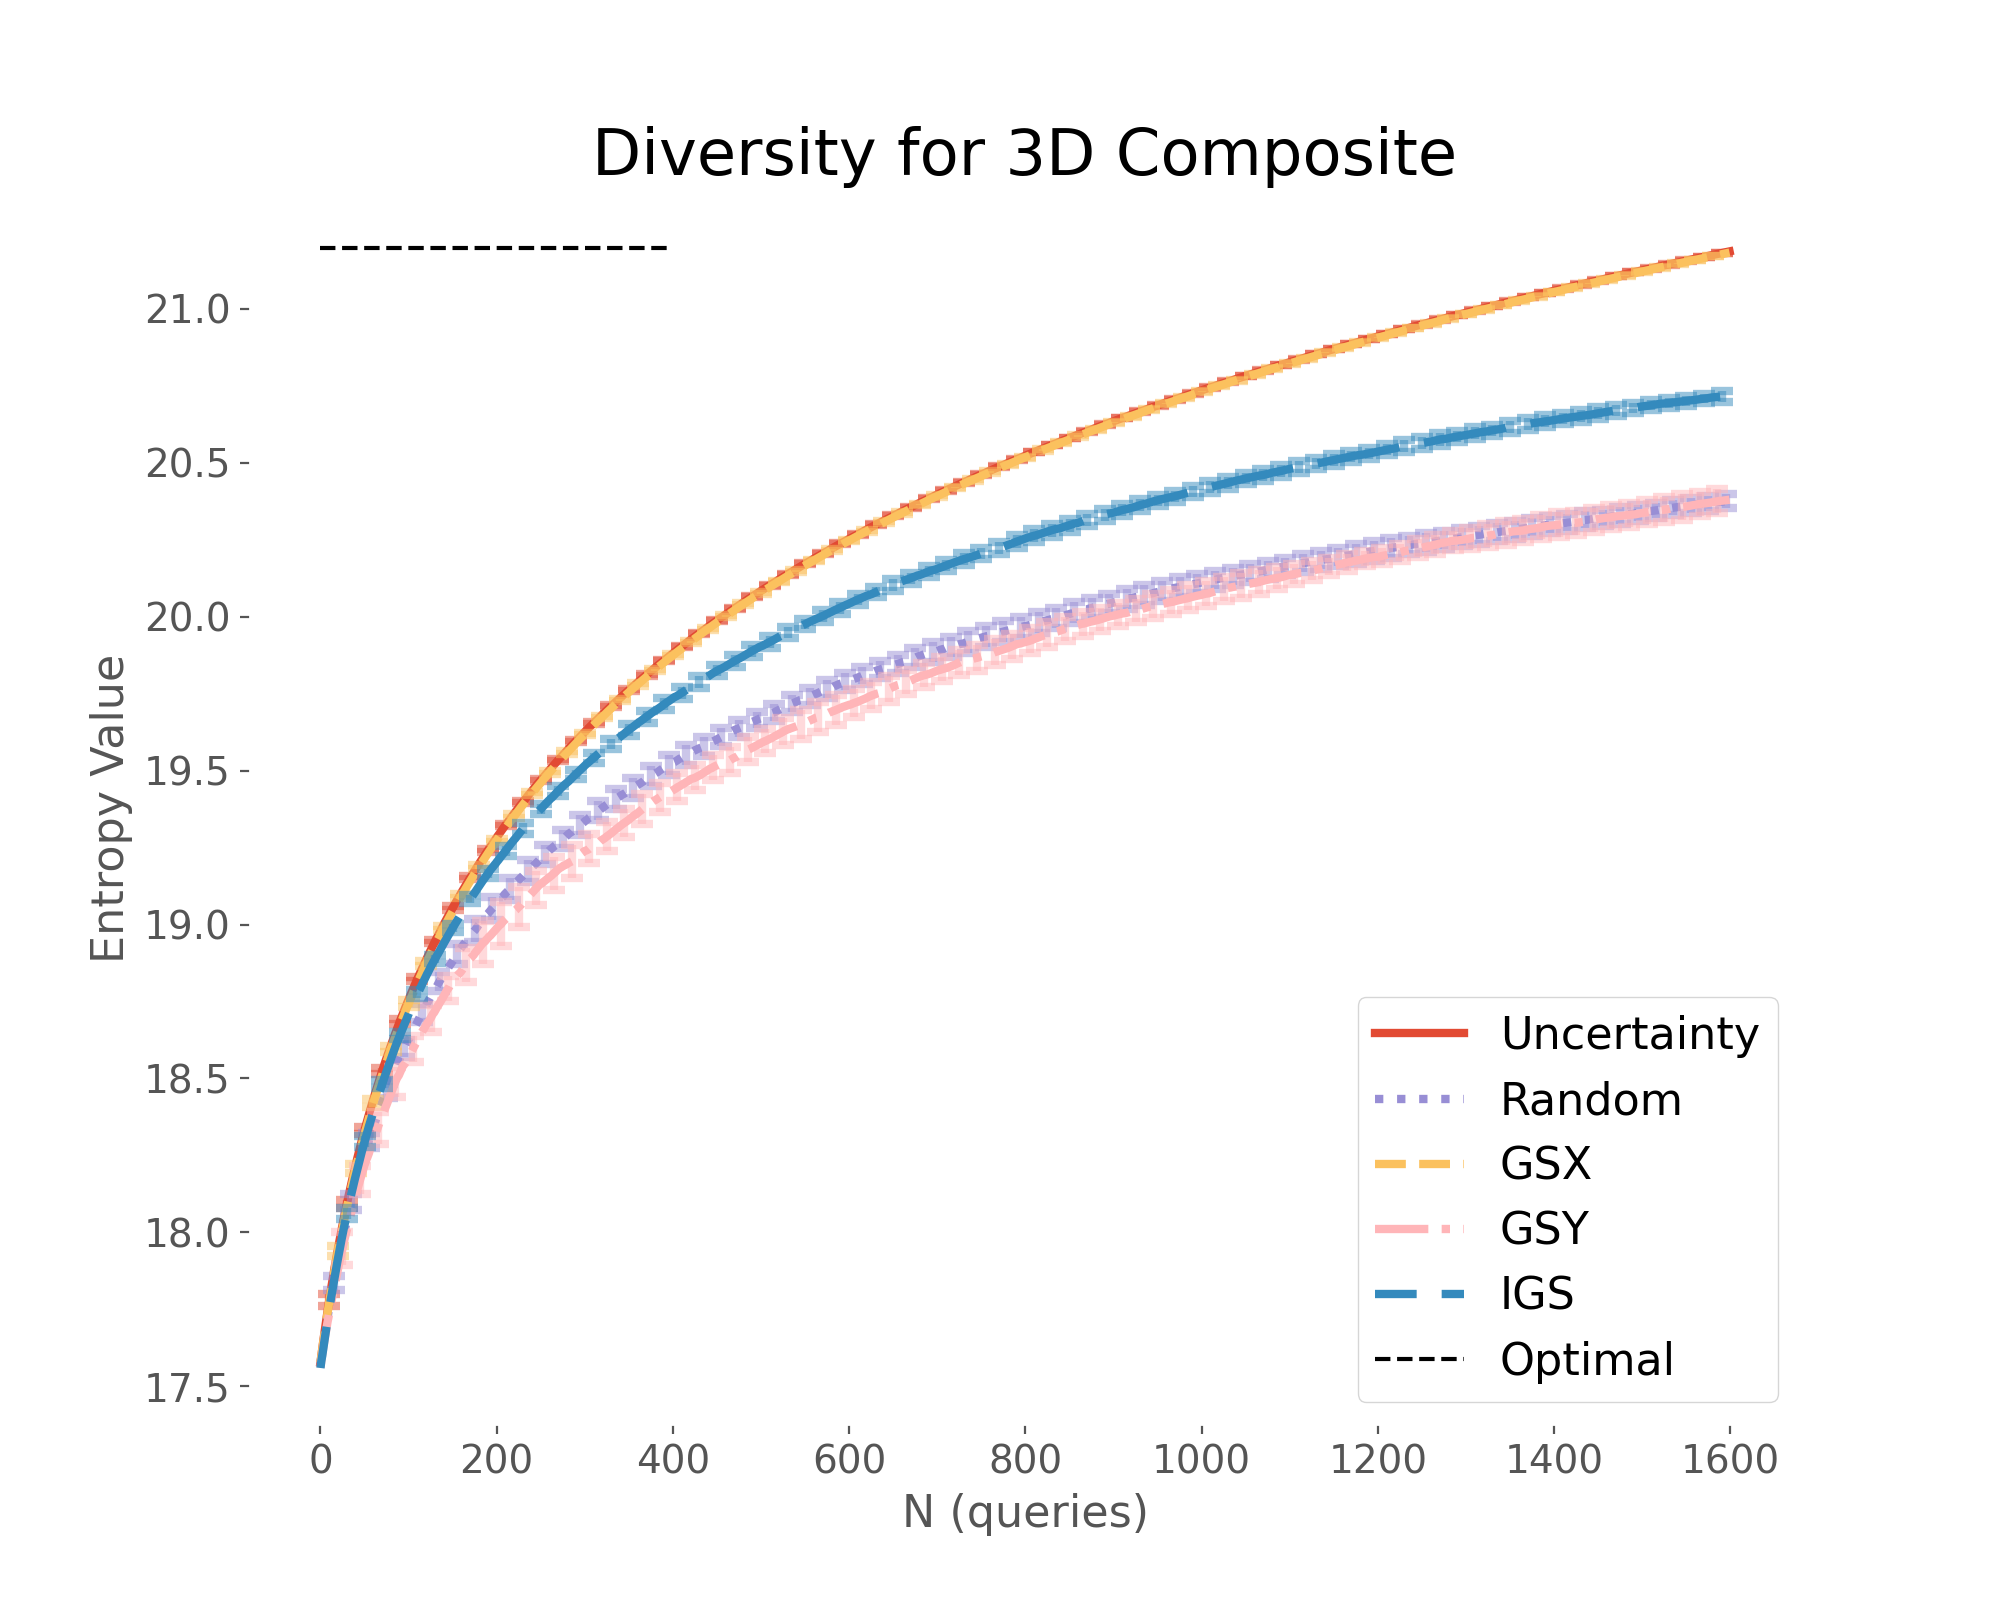
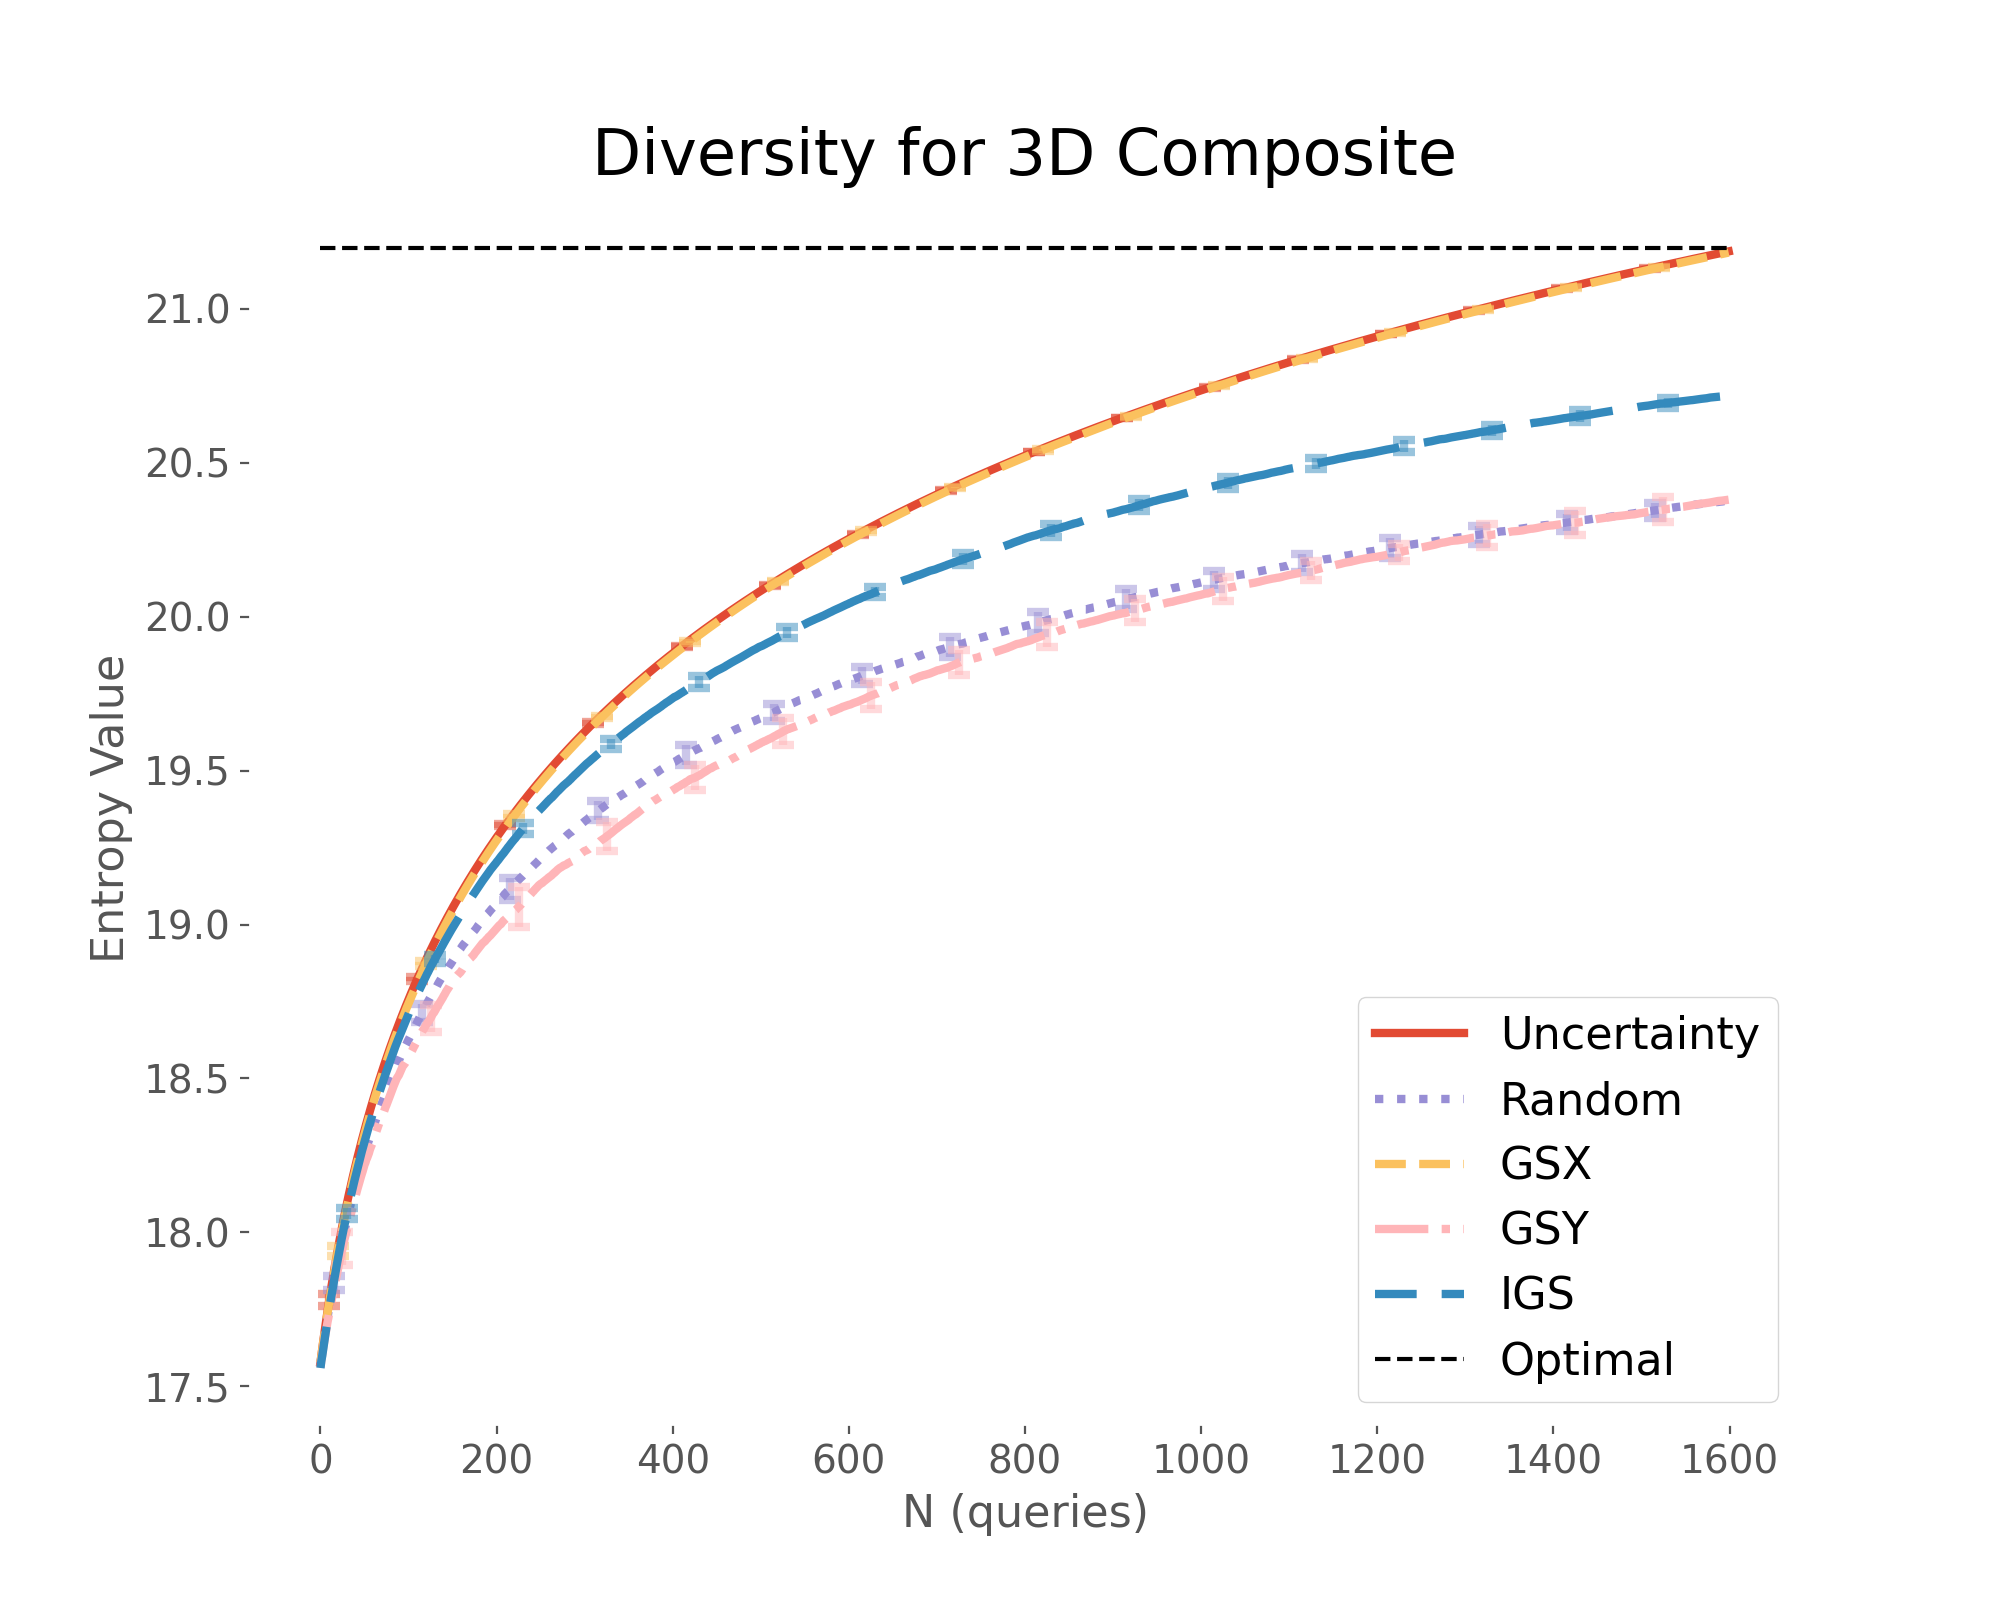
Fix diversity plot

diff --git a/3D/calc-diversity.md b/3D/calc-diversity.md
@@ -164,7 +164,7 @@ def plot_diversity(scores, opt=None, error_freq=20, ylog=False):
         offset += 5
         
     if opt is not None:
-        xx = [0, 100, 200, 300, 400]
+        xx = [0, 400, 800, 1200, 1600]
         yy = [opt] * len(xx)
         
         if ylog:
@@ -181,7 +181,7 @@ def plot_diversity(scores, opt=None, error_freq=20, ylog=False):
 
 ```python
 
-plot_diversity(data_agg, opt=entropy_all)
+plot_diversity(data_agg, opt=entropy_all, error_freq=100)
 plt.title('Diversity for 3D Composite')
 plt.savefig(plot_file, dpi=200)
 ```
